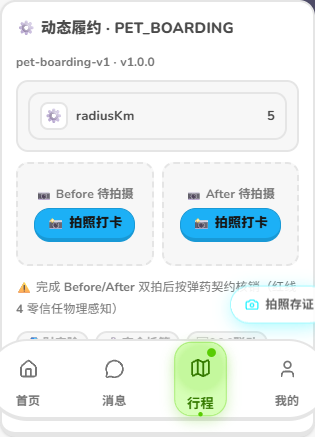
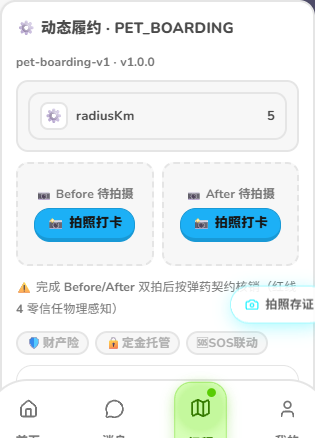
feat(ui):FulfillmentCockpit全面Duo化+e2e整屏落图（宪法收敛：条文 #6）

Changed region(s): [[0.0, 0.7717, 1.0, 1.0], [0.0286, 0.7717, 0.0571, 0.8014]]

diff --git a/src/components/waves/FulfillmentCockpit.tsx b/src/components/waves/FulfillmentCockpit.tsx
@@ -10,6 +10,7 @@ import StatusCapsule from "@/components/oto-ui/StatusCapsule";
 import { CockpitAmmoSlot, type CockpitSlotActions } from "./slots/DynamicAmmoSlot";
 import { useEffect, useState } from "react";
 import DuoButton from "@/components/ui/DuoButton";
+import DuoPill, { type DuoPillTone } from "@/components/ui/DuoPill";
 import DuoProgress from "@/components/ui/DuoProgress";
 import DuoPathNode from "@/components/ui/DuoPathNode";
 import { playDuoSound } from "@/lib/duo-audio";
@@ -104,37 +105,9 @@ export interface FulfillmentCockpitProps {
   waveId?: string;
 }
 
+/** 座舱根容器布局（纯结构；色彩全部走 Duo Token + Tailwind，暗岛已出清）。 */
 const COCKPIT_CSS = `
-.cockpit{max-width:460px;border-radius:22px;padding:14px;color:#e2e8f0;font-size:14px;
-  display:flex;flex-direction:column;gap:12px;line-height:1.5}
-.cockpit-capsule{display:flex;justify-content:center}
-.cockpit-theme{font-size:12px;color:rgba(255,255,255,.68);text-align:center;font-weight:500}
-.cockpit-provider{display:flex;align-items:center;gap:10px;padding:10px 12px;border-radius:16px;
-  background:rgba(255,255,255,.07);border:1px solid rgba(255,255,255,.12)}
-.cockpit-provider-info strong{font-size:15px;font-weight:700;color:#f1f5f9}
-.cockpit-avatar{width:42px;height:42px;border-radius:50%;display:flex;align-items:center;justify-content:center;
-  font-size:22px;background:rgba(255,255,255,.12)}
-.cockpit-provider-info{display:flex;flex-direction:column;gap:2px}
-.cockpit-trust{display:inline-flex;gap:6px;font-size:12px;color:#cbd5e1;font-weight:500}
-.cockpit-actions{margin-left:auto;display:flex;gap:6px}
-.cockpit-pill{padding:5px 10px;border-radius:999px;font-size:12px;font-weight:600;border:1px solid rgba(255,255,255,.18);
-  background:rgba(255,255,255,.08);cursor:pointer;color:#e2e8f0}
-.cockpit-cta{width:100%;padding:13px 0;border-radius:16px;border:none;font-size:16px;font-weight:800;
-  cursor:pointer;color:#fff;background:linear-gradient(135deg,var(--theme-primary),var(--theme-primary-active));
-  box-shadow:0 8px 24px var(--theme-glow);transition:transform .15s,filter .15s}
-.cockpit-cta:hover{transform:translateY(-1px);filter:brightness(1.1)}
-.cockpit-cta:active{transform:scale(.98)}
-.cockpit-safety{display:flex;align-items:center;gap:6px;padding:7px 11px;border-radius:12px;
-  font-size:12px;font-weight:600;border:1px solid;line-height:1.5}
-.cockpit-safety-guarded{color:#4ade80;background:rgba(74,222,128,.08);border-color:rgba(74,222,128,.3)}
-.cockpit-safety-attention{color:#fbbf24;background:rgba(251,191,36,.08);border-color:rgba(251,191,36,.3)}
-.cockpit-safety-threat{color:#f87171;background:rgba(248,113,113,.1);border-color:rgba(248,113,113,.4)}
-.cockpit-armed{display:flex;flex-direction:column;gap:4px;align-items:flex-start;padding:9px 12px;border-radius:14px;
-  font-size:13px;font-weight:800;color:#34d399;background:linear-gradient(135deg,rgba(52,211,153,.16),rgba(251,191,36,.12));
-  border:1px solid rgba(52,211,153,.45);box-shadow:0 0 18px rgba(52,211,153,.18);line-height:1.5}
-.cockpit-custom{display:flex;flex-wrap:wrap;gap:6px}
-.cockpit-custom-tag{font-size:12px;font-weight:700;padding:4px 10px;border-radius:999px;
-  background:rgba(123,97,255,.14);border:1px solid rgba(123,97,255,.4);color:#c4b5fd}
+.cockpit{max-width:460px}
 `;
 
 /** 六维信用雷达预览（trustScore 拆分展示）。 */
@@ -147,12 +120,12 @@ export function sixDimensionScores(trustScore: number): { label: string; value: 
   });
 }
 
-/** S3 SAFE_MONITOR 安全徽标元数据（安全守护状态 → 文案/类名/图标）。 */
+/** S3 SAFE_MONITOR 安全徽标元数据（安全守护状态 → 文案/tone；DuoPill 渲染）。 */
 export const SAFETY_PILL_META = {
-  GUARDED: { label: "🛡 安全守护中 · 全维度零威胁", className: "cockpit-safety-guarded" },
-  ATTENTION: { label: "⚠ 安全守护 · 有告警待确认", className: "cockpit-safety-attention" },
-  THREAT: { label: "🚨 安全守护 · 威胁已联动风控", className: "cockpit-safety-threat" },
-} as const;
+  GUARDED: { label: "🛡 安全守护中 · 全维度零威胁", tone: "green" },
+  ATTENTION: { label: "⚠ 安全守护 · 有告警待确认", tone: "yellow" },
+  THREAT: { label: "🚨 安全守护 · 威胁已联动风控", tone: "red" },
+} as const satisfies Record<string, { label: string; tone: DuoPillTone }>;
 
 /** 阶段4 强化守护徽标默认文案（上层未注入 safetyBadge 时兜底）。 */
 export const ENHANCED_SAFETY_BADGE_DEFAULT = "🛡 强化安全守护中（虚拟号通话 + 全程行程守护 + 敏感词实时监听）";
@@ -186,7 +159,7 @@ export function describeCustomRequirementTags(
 /** 安全报告 → 徽标元数据投影（纯函数，供测试直接断言）。 */
 export function describeSafetyPill(
   report: IRuntimeSafetyReport,
-): { label: string; className: string; status: "GUARDED" | "ATTENTION" | "THREAT" } {
+): { label: string; tone: DuoPillTone; status: "GUARDED" | "ATTENTION" | "THREAT" } {
   const meta = SAFETY_PILL_META[report.securityPillStatus];
   return { ...meta, status: report.securityPillStatus };
 }
@@ -229,13 +202,17 @@ export default function FulfillmentCockpit({
   }, [status]);
 
   return (
-    <div className="cockpit" data-scenario={scenario} data-theme={cockpitTheme}>
+    <div
+      className="cockpit duo-3d-card bg-white rounded-3xl border-2 border-[var(--color-duo-swan)] border-b-[6px] px-4 py-4 text-sm text-[var(--color-duo-eel)] flex flex-col gap-3 leading-relaxed"
+      data-scenario={scenario}
+      data-theme={cockpitTheme}
+    >
       <style>{COCKPIT_CSS}</style>
-      <div className="cockpit-capsule">
+      <div className="flex justify-center">
         <StatusCapsule status={status} options={capsule} />
       </div>
 
-      <div className="cockpit-theme" data-theme-label>
+      <div className="text-xs text-[var(--color-duo-wolf)] text-center font-medium" data-theme-label>
         🎨 场景主题 · {theme.label}
       </div>
 
@@ -262,56 +239,58 @@ export default function FulfillmentCockpit({
       {/* 阶段4：引信自适应升级（PROXIMITY_ENHANCED）→ 强化安全守护条 */}
       {armed && (
         <section
-          className="cockpit-armed"
+          className="flex flex-col items-start gap-1 rounded-2xl border-2 border-[var(--color-duo-green)]/40 bg-[var(--color-duo-green)]/10 px-3 py-2 text-[13px] font-extrabold text-[var(--color-duo-green-ink)]"
           data-force-armed="true"
           data-testid="cockpit-armed-banner"
         >
           {safetyBadge ?? ENHANCED_SAFETY_BADGE_DEFAULT}
-          <span style={{ opacity: 0.85, fontSize: 12, fontWeight: 600 }}>
+          <span className="text-xs font-semibold opacity-80">
             虚拟号 · 行程守护 · 敏感词监听 已强制开启
           </span>
         </section>
       )}
 
       {safetyPill && (
-        <section
-          className={`cockpit-safety ${safetyPill.className}`}
-          data-safety={safetyReport?.securityPillStatus}
-          data-safety-count={safetyReport?.activeThreats.length ?? 0}
+        <DuoPill
+          tone={safetyPill.tone}
+          dataAttrs={{
+            "data-safety": safetyReport?.securityPillStatus,
+            "data-safety-count": safetyReport?.activeThreats.length ?? 0,
+          }}
         >
           {safetyPill.label}
           {safetyReport && safetyReport.activeThreats.length > 0 && (
-            <span style={{ opacity: 0.75 }}>
+            <span className="opacity-75">
               · {safetyReport.activeThreats.join(" / ")}
             </span>
           )}
-        </section>
+        </DuoPill>
       )}
 
       {/* 阶段4：定制需求标签栏（仅渲染清洗后的中性化契约，杜绝原始粗糙词直显） */}
       {(customTags.length > 0 || customCleanText) && (
-        <section className="cockpit-custom" data-testid="cockpit-custom-requirements" data-custom-requirements>
+        <section className="flex flex-wrap gap-1.5" data-testid="cockpit-custom-requirements" data-custom-requirements>
           {customTags.map((tag) => (
-            <span key={tag} className="cockpit-custom-tag" data-custom-tag>
+            <DuoPill key={tag} tone="neutral" dataAttrs={{ "data-custom-tag": "" }}>
               {tag}
-            </span>
+            </DuoPill>
           ))}
           {customCleanText && !customTags.some((t) => t.includes("工作着装")) && (
-            <span className="cockpit-custom-tag" data-custom-tag data-clean-text>
+            <DuoPill tone="neutral" dataAttrs={{ "data-custom-tag": "", "data-clean-text": "" }}>
               {customCleanText}
-            </span>
+            </DuoPill>
           )}
         </section>
       )}
 
-      <section className="cockpit-provider">
-        <span className="cockpit-avatar">{provider.avatar}</span>
-        <div className="cockpit-provider-info">
-          <strong>
+      <section className="flex items-center gap-2.5 rounded-2xl border-2 border-[var(--color-duo-swan)] bg-[var(--color-duo-polar)] px-3 py-2.5">
+        <span className="flex h-11 w-11 shrink-0 items-center justify-center rounded-full border-2 border-[var(--color-duo-swan)] bg-white text-[22px]">{provider.avatar}</span>
+        <div className="flex flex-col gap-0.5">
+          <strong className="text-[15px] font-bold text-[var(--color-duo-eel)]">
             {provider.name}
-            {provider.verified && <span className="ml-1 text-sky-400">✓ 实名</span>}
+            {provider.verified && <DuoPill tone="green" className="ml-1 align-middle">✓ 实名</DuoPill>}
           </strong>
-          <span className="cockpit-trust">
+          <span className="inline-flex flex-wrap gap-x-1.5 text-xs font-medium text-[var(--color-duo-wolf)]">
             信用 {provider.trustScore} 分
             {sixDimensionScores(provider.trustScore).map((d) => (
               <span key={d.label} title={`${d.label} ${d.value}`}>
@@ -320,13 +299,13 @@ export default function FulfillmentCockpit({
             ))}
           </span>
         </div>
-        <div className="cockpit-actions">
-          <button type="button" className="cockpit-pill" aria-label="一键虚拟通话" data-action="dial" onClick={onDial}>
+        <div className="ml-auto flex shrink-0 gap-1.5">
+          <DuoButton variant="secondary" size="sm" aria-label="一键虚拟通话" data-action="dial" onClick={onDial}>
             📞
-          </button>
-          <button type="button" className="cockpit-pill" aria-label="隐私聊天" data-action="chat" onClick={onChat}>
+          </DuoButton>
+          <DuoButton variant="secondary" size="sm" aria-label="隐私聊天" data-action="chat" onClick={onChat}>
             💬
-          </button>
+          </DuoButton>
         </div>
       </section>
 

diff --git a/docs/UI-UX-BACKLOG.md b/docs/UI-UX-BACKLOG.md
@@ -100,3 +100,9 @@
 - 考卷新建 e2e-dyn-slot.mjs（SUITE_ORDER + MANUAL_ONLY…不，是 SUITE_ORDER 正式位 + RULES 映射 DynamicAmmoSlot/CockpitAmmoSlot/dyn-slot），宠物寄养全链路发单→接单（直达 accepted）→行程座舱落图 docs/shot/dyn-slot-duo.png。
 - 探针三连修（均记档）：① dual-role 行撑爆撞 57014 → 新卷独占 oto::e2e::dyn-slot 行；② B 波卡永不出现 → feed 硬筛 identity.categories 品类匹配，预置须扩「宠物寄养」；③ 修空调 variant=hk（复用家政模板）根本不挂 dynamic-ammo → 改考 pet-boarding-v1（-actionSchema.variant=dyn 唯一真身，registry 全表实测）。
 - 剩余 2 岛（座舱双巨物）：FulfillmentCockpit / FulfillmentCenter。
+
+## Duo 化 Batch①-7：FulfillmentCockpit（2026-09-12）
+- 改写：删 COCKPIT_CSS 暗岛（仅留 max-width 结构钩）→ Duo 白底 3D 大卡（cockpit 首类名保留）+ 服务者卡 polar 白底（实名徽标换 DuoPill green，六维信用分保留）+ 通话/聊天换 DuoButton secondary sm（data-action/aria 原样透传）+ 安全徽标 SAFETY_PILL_META className→tone（GUARDED/ATTENTION/THREAT=green/yellow/red，describeSafetyPill 同步）+ 强化守护条 Duo 绿底 + 定制标签 DuoPill neutral。CTA/资金盾/通关地图/里程碑本就 Duo，未动；StatusCapsule 外骨骼锚点不动（前端红线①）。
+- 单测 27/27 零改过（data-scenario/data-theme/data-action/data-testid/文案锚点全保留，无用例断言 cockpit-* 类名）；e2e-dyn-slot 重跑 PASS + 整屏落图 docs/shot/cockpit-duo.png。
+- 六圈定位：L1 触达（履约座舱主屏）+ L2 业务核心（五态履约）；复用 base/safe runtime-monitor（徽标语义）+ milestone-escrow（阶梯已 Duo）；弹药表零新增。命中 #1/#4 + 外骨骼红线①，偏离无。
+- 剩余最后 1 岛：FulfillmentCenter。
